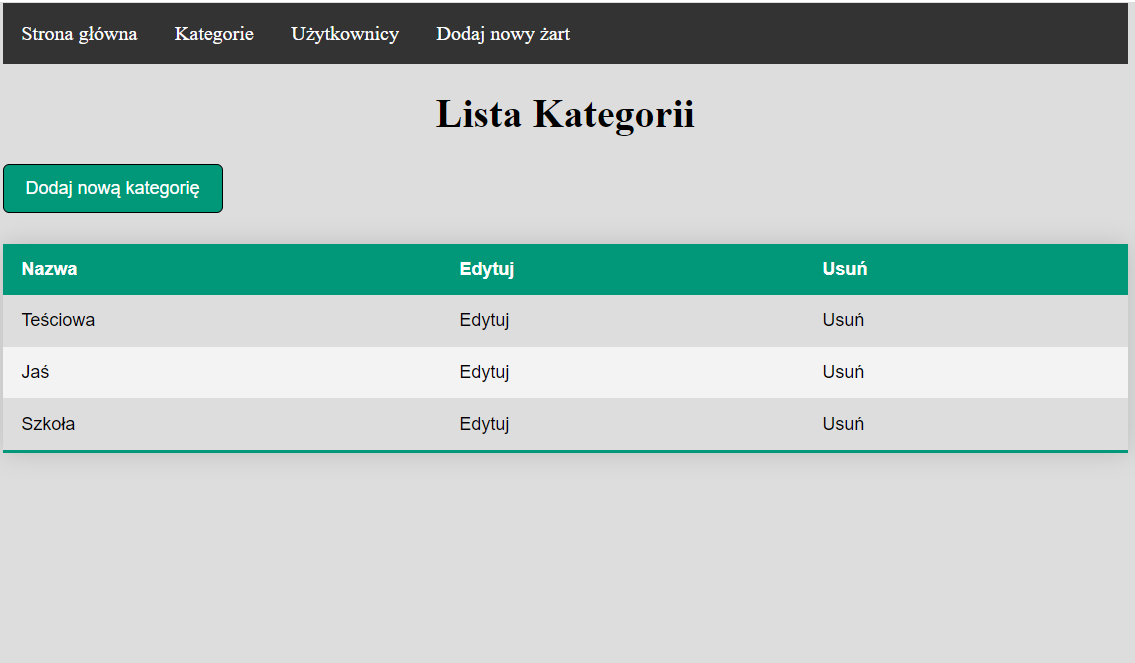
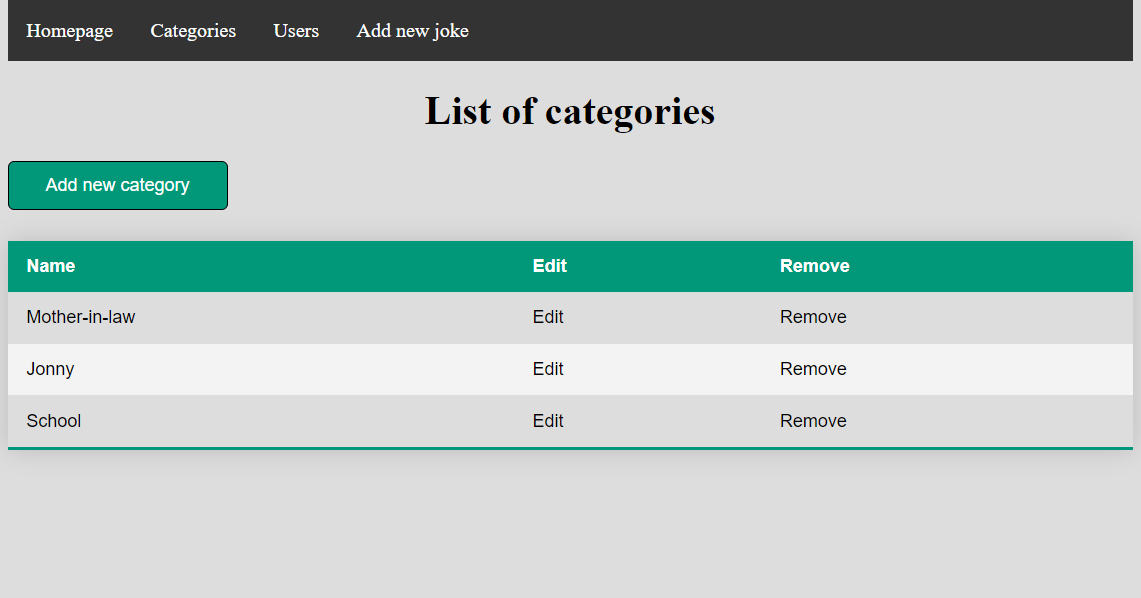
translate app

diff --git a/jokes-web/src/main/resources/templates/categories/list.html b/jokes-web/src/main/resources/templates/categories/list.html
@@ -2,39 +2,39 @@
 <html lang="en" xmlns:th="http://www.thymeleaf.org">
 <head>
     <meta charset="UTF-8">
-    <title>Suchary - lista kategorii</title>
+    <title>Jokes - list of categories</title>
     <link rel="stylesheet" th:href="@{/css/main.css}">
     <link rel="stylesheet" th:href="@{/css/table.css}">
     <link rel="stylesheet" th:href="@{/css/form.css}">
 </head>
 <body>
 <div id="menu">
-    <a th:href="@{/}" class="menu-item">Strona główna</a>
-    <a th:href="@{/categories}" class="menu-item">Kategorie</a>
-    <a th:href="@{/users}" class="menu-item">Użytkownicy</a>
-    <a th:href="@{/jokes/add}" class="menu-item">Dodaj nowy żart</a>
+    <a th:href="@{/}" class="menu-item">Homepage</a>
+    <a th:href="@{/categories}" class="menu-item">Categories</a>
+    <a th:href="@{/users}" class="menu-item">Users</a>
+    <a th:href="@{/jokes/add}" class="menu-item">Add new joke</a>
 
     <div style="clear: both;"></div>
 </div>
-<h1 class="header">Lista Kategorii</h1>
+<h1 class="header">List of categories</h1>
 
 <div id="wrapper">
     <a class="inner-link" th:href="@{/categories/add}">
-        <div class="add-button">Dodaj nową kategorię</div>
+        <div class="add-button">Add new category</div>
     </a>
     <table class="styled-table">
         <thead>
         <tr>
-            <th>Nazwa</th>
-            <th>Edytuj</th>
-            <th>Usuń</th>
+            <th>Name</th>
+            <th>Edit</th>
+            <th>Remove</th>
         </tr>
         </thead>
         <tbody>
         <tr th:each="category : ${categories}">
             <td th:text="${category.name}">name</td>
-            <td><a th:href="@{/categories/{categoryId}/edit(categoryId=${category.id})}">Edytuj</a></td>
-            <td><a th:href="@{/categories/{categoryId}/delete(categoryId=${category.id})}">Usuń</a></td>
+            <td><a th:href="@{/categories/{categoryId}/edit(categoryId=${category.id})}">Edit</a></td>
+            <td><a th:href="@{/categories/{categoryId}/delete(categoryId=${category.id})}">Remove</a></td>
         </tr>
         </tbody>
     </table>

diff --git a/jokes-web/src/main/resources/templates/index.html b/jokes-web/src/main/resources/templates/index.html
@@ -2,27 +2,27 @@
 <html lang="en" xmlns:th="http://www.thymeleaf.org">
 <head>
     <meta charset="UTF-8">
-    <title>Suchary</title>
+    <title>Jokes</title>
     <link rel="stylesheet" th:href="@{/css/main.css}">
 </head>
 <body>
 <div id="menu">
-    <a th:href="@{/}" class="menu-item">Strona główna</a>
-    <a th:href="@{/categories}" class="menu-item">Kategorie</a>
-    <a th:href="@{/users}" class="menu-item">Użytkownicy</a>
-    <a th:href="@{/jokes/add}" class="menu-item">Dodaj nowy żart</a>
+    <a th:href="@{/}" class="menu-item">Homepage</a>
+    <a th:href="@{/categories}" class="menu-item">Categories</a>
+    <a th:href="@{/users}" class="menu-item">Users</a>
+    <a th:href="@{/jokes/add}" class="menu-item">Add new joke</a>
 
     <div style="clear: both;"></div>
 </div>
 <div id="wrapper">
-    <h1 class="header">Witaj na stronie z sucharami</h1>
+    <h1 class="header">Welcome to the jokes page</h1>
 
     <div id="categories">
-        <h3 class="header">Kategorie</h3>
-        <!-- przekierowanie na każdą kategorię-->
+        <h3 class="header">Categories</h3>
+        <!-- redirection to each category-->
         <a class="inner-link" th:each="category: ${categories}" th:href="@{/jokes(categoryId=${category.id})}">
             <div class="category" th:text="${category.name}">
-                kategoria
+                category
             </div>
         </a>
 
@@ -31,8 +31,8 @@
         <div class="joke" th:each="joke: ${jokes}">
             <h2 class="title" th:text="${joke.title}">Tytuł</h2>
             <pre class="content" th:text="${joke.content}">Content</pre>
-            <!-- użycie metod zamiast pól-->
-            <div class="joke-info">Autor: <span th:text="${joke.getUser()?.getUsername()}"></span></div>
+            <!-- using methods instead of fields-->
+            <div class="joke-info">Author: <span th:text="${joke.getUser()?.getUsername()}"></span></div>
         </div>
     </div>
     <div class="clear: both;"></div>

diff --git a/jokes-web/src/main/resources/templates/jokes/add.html b/jokes-web/src/main/resources/templates/jokes/add.html
@@ -2,35 +2,35 @@
 <html lang="en" xmlns:th="http://www.thymeleaf.org" xmlns="http://www.w3.org/1999/html">
 <head>
     <meta charset="UTF-8">
-    <title>Dodaj nowy żart</title>
+    <title>Add new joke</title>
     <link rel="stylesheet" th:href="@{/css/main.css}">
     <link rel="stylesheet" th:href="@{/css/form.css}">
 </head>
 <body>
 <div id="menu">
-    <a th:href="@{/}" class="menu-item">Strona główna</a>
-    <a th:href="@{/categories}" class="menu-item">Kategorie</a>
-    <a th:href="@{/users}" class="menu-item">Użytkownicy</a>
-    <a th:href="@{/jokes/add}" class="menu-item">Dodaj nowy żart</a>
+    <a th:href="@{/}" class="menu-item">Homepage</a>
+    <a th:href="@{/categories}" class="menu-item">Categories</a>
+    <a th:href="@{/users}" class="menu-item">Users</a>
+    <a th:href="@{/jokes/add}" class="menu-item">Add new joke</a>
 
     <div style="clear: both;"></div>
 </div>
-<h1 class="header">Dodaj nowy żart</h1>
+<h1 class="header">Add new joke</h1>
 
 <div id="form-container">
     <!-- gdzie zostanie przekierowane -->
     <form method="post" th:action="@{/jokes/add}" th:object="${joke}">
-        <input type="text" placeholder="tytuł" th:field="*{title}">
-        <textarea rows="7" placeholder="żart" th:field="*{content}"></textarea>
+        <input type="text" placeholder="Title" th:field="*{title}">
+        <textarea rows="7" placeholder="joke" th:field="*{content}"></textarea>
 
-        <h3>Kategorie</h3>
+        <h3>Categories</h3>
 
         <div th:each="category : ${categories}">
             <input th:attr="id=${category.id}" type="checkbox" name="category" th:value="${category.id}">
-            <label th:attr="for=${category.id}" th:text="${category.name}">Kategoria</label>
+            <label th:attr="for=${category.id}" th:text="${category.name}">Category</label>
         </div>
 
-        <input type="submit" value="Dodaj">
+        <input type="submit" value="Add">
 
     </form>
 </div>

diff --git a/jokes-web/src/main/resources/templates/categories/save.html b/jokes-web/src/main/resources/templates/categories/save.html
@@ -2,28 +2,28 @@
 <html lang="en" xmlns:th="http://www.thymeleaf.org" xmlns="http://www.w3.org/1999/html">
 <head>
     <meta charset="UTF-8">
-    <title>Dodaj nową kategorię</title>
+    <title>Add new category</title>
     <link rel="stylesheet" th:href="@{/css/main.css}">
     <link rel="stylesheet" th:href="@{/css/form.css}">
 </head>
 <body>
 <div id="menu">
-    <a th:href="@{/}" class="menu-item">Strona główna</a>
-    <a th:href="@{/categories}" class="menu-item">Kategorie</a>
-    <a th:href="@{/users}" class="menu-item">Użytkownicy</a>
-    <a th:href="@{/jokes/add}" class="menu-item">Dodaj nowy żart</a>
+    <a th:href="@{/}" class="menu-item">Homepage</a>
+    <a th:href="@{/categories}" class="menu-item">Categories</a>
+    <a th:href="@{/users}" class="menu-item">Users</a>
+    <a th:href="@{/jokes/add}" class="menu-item">Add new joke</a>
 
     <div style="clear: both;"></div>
 </div>
-<h1 class="header">Dodaj nową kategorię</h1>
+<h1 class="header">Add new category</h1>
 
 <div id="form-container">
     <!-- gdzie zostanie przekierowane -->
     <form method="post" th:action="@{/categories/save}" th:object="${category}">
         <input type="hidden" th:field="*{id}">
-        <input type="text" placeholder="nazwa kategorii" th:field="*{name}">
+        <input type="text" placeholder="category name" th:field="*{name}">
 
-        <input type="submit" value="Zapisz">
+        <input type="submit" value="Save">
 
     </form>
 </div>

diff --git a/jokes-web/src/main/resources/templates/users/list.html b/jokes-web/src/main/resources/templates/users/list.html
@@ -2,21 +2,21 @@
 <html lang="en" xmlns:th="http://www.thymeleaf.org">
 <head>
     <meta charset="UTF-8">
-    <title>Suchary - lista użytkowników</title>
+    <title>Jokes - user list</title>
     <link rel="stylesheet" th:href="@{/css/main.css}">
     <link rel="stylesheet" th:href="@{/css/table.css}">
     <link rel="stylesheet" th:href="@{/css/form.css}">
 </head>
 <body>
 <div id="menu">
-    <a th:href="@{/}" class="menu-item">Strona główna</a>
-    <a th:href="@{/categories}" class="menu-item">Kategorie</a>
-    <a th:href="@{/users}" class="menu-item">Użytkownicy</a>
-    <a th:href="@{/jokes/add}" class="menu-item">Dodaj nowy żart</a>
+    <a th:href="@{/}" class="menu-item">Homepage</a>
+    <a th:href="@{/categories}" class="menu-item">Categories</a>
+    <a th:href="@{/users}" class="menu-item">Users</a>
+    <a th:href="@{/jokes/add}" class="menu-item">Add new joke</a>
 
     <div style="clear: both;"></div>
 </div>
-<h1 class="header">Lista użytkowników</h1>
+<h1 class="header">User list</h1>
 
 <div id="wrapper">
     <table class="styled-table">
@@ -24,7 +24,7 @@
         <tr>
             <th>Login</th>
             <th>Email</th>
-            <th>Ilość kawałów</th>
+            <th>Number of jokes</th>
         </tr>
         </thead>
         <tbody>

diff --git a/jokes-web/src/main/resources/templates/errors/400.html b/jokes-web/src/main/resources/templates/errors/400.html
@@ -2,15 +2,15 @@
 <html lang="en" xmlns:th="http://www.thymeleaf.org">
 <head>
     <meta charset="UTF-8">
-    <title>Suchary</title>
+    <title>Jokes</title>
     <link rel="stylesheet" th:href="@{/css/main.css}">
 </head>
 <body>
 <div id="menu">
-    <a th:href="@{/}" class="menu-item">Strona główna</a>
-    <a th:href="@{/categories}" class="menu-item">Kategorie</a>
-    <a th:href="@{/users}" class="menu-item">Użytkownicy</a>
-    <a th:href="@{/jokes/add}" class="menu-item">Dodaj nowy żart</a>
+    <a th:href="@{/}" class="menu-item">Homepage</a>
+    <a th:href="@{/categories}" class="menu-item">Categories</a>
+    <a th:href="@{/users}" class="menu-item">Users</a>
+    <a th:href="@{/jokes/add}" class="menu-item">Add new joke</a>
 
     <div style="clear: both;"></div>
 </div>

diff --git a/jokes-web/src/main/resources/templates/errors/404.html b/jokes-web/src/main/resources/templates/errors/404.html
@@ -2,15 +2,15 @@
 <html lang="en" xmlns:th="http://www.thymeleaf.org">
 <head>
     <meta charset="UTF-8">
-    <title>Suchary</title>
+    <title>Jokes</title>
     <link rel="stylesheet" th:href="@{/css/main.css}">
 </head>
 <body>
 <div id="menu">
-    <a th:href="@{/}" class="menu-item">Strona główna</a>
-    <a th:href="@{/categories}" class="menu-item">Kategorie</a>
-    <a th:href="@{/users}" class="menu-item">Użytkownicy</a>
-    <a th:href="@{/jokes/add}" class="menu-item">Dodaj nowy żart</a>
+    <a th:href="@{/}" class="menu-item">Homepage</a>
+    <a th:href="@{/categories}" class="menu-item">Categories</a>
+    <a th:href="@{/users}" class="menu-item">Users</a>
+    <a th:href="@{/jokes/add}" class="menu-item">Add new joke</a>
 
     <div style="clear: both;"></div>
 </div>

diff --git a/jokes-web/src/main/java/pl/pp/spring/jokeswebapp/bootstrap/DataLoader.java b/jokes-web/src/main/java/pl/pp/spring/jokeswebapp/bootstrap/DataLoader.java
@@ -32,28 +32,28 @@ public class DataLoader implements CommandLineRunner {
     public void run(String... args) {
 
         UserProfile andrzejNowackiProfile = new UserProfile();
-        andrzejNowackiProfile.setFirstName("Andrzej");
+        andrzejNowackiProfile.setFirstName("Andrew");
         andrzejNowackiProfile.setLastName("Nowacki");
 
         User andrzejNowacki = new User();
-        andrzejNowacki.setUsername("andrzejNowacki");
-        andrzejNowacki.setEmail("andrzejNowacki@gmail.com");
+        andrzejNowacki.setUsername("andrewNowacki");
+        andrzejNowacki.setEmail("andrewNowacki@gmail.com");
         andrzejNowacki.setPassword("qwert");
 
         andrzejNowacki.setUserProfile(andrzejNowackiProfile);
 
         User karolWozniak = new User();
-        karolWozniak.setUsername("karolWozniak");
-        karolWozniak.setEmail("karolWozniak@gmail.com");
+        karolWozniak.setUsername("carolWozniak");
+        karolWozniak.setEmail("carolWozniak@gmail.com");
         karolWozniak.setPassword("1234");
 
 
         Joke joke1 = getExampleJoke1();
         Joke joke2 = getExampleJoke2();
 
-        Category category1 = new Category("Teściowa");
-        Category category2 = new Category("Jaś");
-        Category category3 = new Category("Szkoła");
+        Category category1 = new Category("Mother-in-law");
+        Category category2 = new Category("Jonny");
+        Category category3 = new Category("School");
 
         categoryService.save(category1);
         categoryService.save(category2);
@@ -63,13 +63,13 @@ public class DataLoader implements CommandLineRunner {
         joke2.addCategory(category2);
         joke2.addCategory(category3);
 
-        //niepotrzebne bo metoda addCategory
+        //unnecessary because addCategory method
 //        category1.getJokes().add(joke1);
 //        category2.getJokes().add(joke2);
 //        category3.getJokes().add(joke2);
 
-        //można kaskadowo - który user do joke
-        //niepotrzebne bo setUser
+        //can cascade - which user to joke
+        //unnecessary because setUser
 //        andrzejNowacki.getJokes().add(joke1);
 //        andrzejNowacki.getJokes().add(joke2);
 
@@ -85,8 +85,8 @@ public class DataLoader implements CommandLineRunner {
         userService.save(andrzejNowacki);
         userService.save(karolWozniak);
 
-        log.trace("trace"); //domyślnie nie wyświetlany
-        log.debug("debug"); //domyślnie nie wyświetlany
+        log.trace("trace"); //not displayed by default
+        log.debug("debug"); //not displayed by default
         log.info("info");
         log.warn("warn");
         log.error("error");
@@ -97,22 +97,23 @@ public class DataLoader implements CommandLineRunner {
 
     private Joke getExampleJoke1() {
         Joke joke1 = new Joke();
-        joke1.setTitle("Okup za teściową");
-        joke1.setContent("Mężczyzna odbiera telefon:\n" +
-                "-Słucham\n" +
-                "*Mamy twoją teściową. musisz zapłacić 100 000 zł okupu - słyszy w telefonie.\n" +
-                "-A co jeśli nie zapłacę? - Zastanawia się mężczyzna.\n" +
-                "*To ją sklonujemy! - odpowiada porywacz.");
+        joke1.setTitle("Ransom for mother-in-law");
+        joke1.setContent("A man take the phone:\n" +
+                "-Please\n" +
+                "*We have your mother-in-law. you have to pay a ransom of PLN 100,000 - he hears on the phone.\n" +
+                "-What if I don't pay? The man wonders.\n" +
+                "*Then we'll clone her!.");
         return joke1;
     }
 
     private Joke getExampleJoke2() {
         Joke joke2 = new Joke();
-        joke2.setTitle("Jaś i Partia");
-        joke2.setContent("-Drogie dzieci, partia jest dla nas jak najlepszy przyjaciel.\n" +
-                "*Proszę Pani! Partia jest dla nas jak brat.\n" +
-                "-Brawo Jasiu. Brawo! Wyjaśnij wszystkim dzieciom dlaczego partia jest dla nas jak brat.\n" +
-                "*A bo przyjaciela można wybrać, a brat jaki się pieron trafi z takim musisz wytrzymać.");
+        joke2.setTitle("Johnny and political party");
+        joke2.setContent("-Dear children, the party is like a best friend to us.\n" +
+                "*Ma'am! The Party is like a brother to us.\n" +
+                "-Bravo, Johnny. Explain to all the children why the political party is like a brother to us.\n" +
+                "*Because you can choose your friend, brother whoever happens to be, \n" +
+                " you're gonna have to withstand with him.");
         return joke2;
     }
 

diff --git a/readme.md b/readme.md
@@ -5,7 +5,7 @@ An application that allows users to view and add jokes in the appropriate catego
 
 ## Screenshots
 
-### Main page
+### Homepage
 ![main page](img/main.png)
 
 ### List of categories
